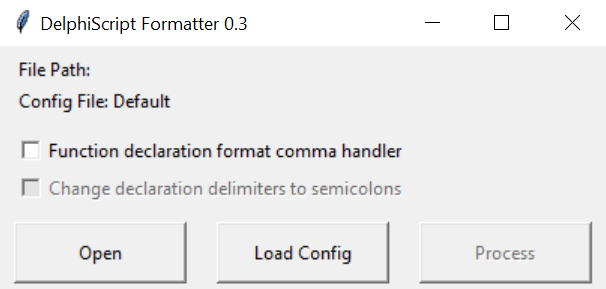
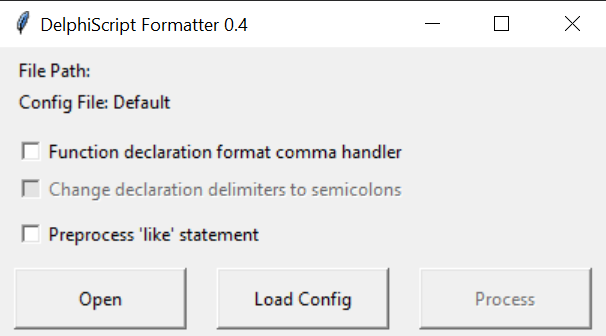
bug fixes, like processing

diff --git a/like_handler.py b/like_handler.py
@@ -1,0 +1,130 @@
+import re
+
+def like_processing_content_preprocess(content):
+    content_modified = []
+
+    for line in content:
+        # Split the line into the part to be processed and the part to be ignored (comment)
+        parts = line.split("//", 1)
+        process_part = parts[0]  # Part to be processed
+        comment_part = "//" + parts[1] if len(parts) > 1 else ""  # Comment part with slashes
+
+        # Mockup function to process the part to be processed
+        processed_part, reverse_info = process_like_statements(process_part)
+
+        if reverse_info != "":
+            content_modified.append(reverse_info)
+
+        # Reassemble both parts into a single line
+        modified_line = processed_part + comment_part
+        content_modified.append(modified_line)
+
+    return content_modified
+
+def like_processing_content_restore(content_modified):
+    restored_content = []
+    processing_info_found = False
+    leading_whitespace = ""
+    processing_info = ""
+
+    for line in content_modified:
+        if line.strip().startswith("// LIKEPROCESSING_INFO:"):
+            # Found a line containing 'LIKEPROCESSING_INFO'
+            processing_info_found = True
+            # Extract leading whitespace from the current line
+            leading_whitespace = line[:len(line) - len(line.lstrip())]
+            processing_info = line.strip()[len("// LIKEPROCESSING_INFO:"):].split(",")
+            continue
+
+        if processing_info_found:
+            # Restore the original content
+            original_line = revert_like_statements(line, processing_info)
+            # Add leading whitespace back to the original line
+            restored_content.append(leading_whitespace + original_line)
+            processing_info_found = False
+        else:
+            restored_content.append(line)
+
+    return restored_content
+
+def revert_like_statements(line, processing_info):
+    restored_line = line
+    equals_positions = [i for i, char in enumerate(restored_line) if char == '=']
+    offset = 0
+
+    for equals_to_skip in processing_info:
+        equals_to_skip = int(equals_to_skip)
+
+        # Ensure the equals_to_skip is within the range of equals positions
+        if 0 <= equals_to_skip < len(equals_positions):
+            replacement_index = equals_positions[equals_to_skip]
+            restored_line = restored_line[:replacement_index + offset] + 'like' + restored_line[replacement_index + 1 + offset:]
+            # like as 3 chars more than = so advance
+            offset = offset + 3
+
+    return restored_line
+
+def process_like_statements(part):
+    # Regular expression pattern to find all occurrences of 'like' (case insensitive)
+    pattern = r'\blike\b'
+
+    # Find all occurrences of 'like' (case insensitive) and replace them with '='
+    processed_part = re.sub(pattern, '=', part, flags=re.IGNORECASE)
+
+    # Initialize the reverse info
+    reverse_info = ""
+
+    found_likes = 0
+
+    # If 'like' processing occurred
+    if re.search(pattern, part, flags=re.IGNORECASE):
+        # Create a string to facilitate reverse replacement
+        # This string will be a comment with slashes starting with 'LIKEPROCESSING_INFO'
+        # Each 'like' replacement is indicated by the number of '=' to be skipped
+        # So that the reverse function knows where a '=' should be replaced by a 'like'
+        reverse_info = "// LIKEPROCESSING_INFO: "
+        like_positions = [m.start() for m in re.finditer(pattern, part, flags=re.IGNORECASE)]
+        for pos in like_positions:
+            # Count the number of '=' to skip
+            equals_to_skip = part.count('=', 0, pos)
+            reverse_info += str(equals_to_skip + found_likes) + ","
+            # each processed like makes a extra skip for restoring
+            found_likes = found_likes + 1
+        # Remove the last comma
+
+        reverse_info = reverse_info[:-1]
+
+        # make a full comment line if like is found
+        if found_likes > 0:
+            reverse_info = reverse_info + '\n'
+
+    # Return both the processed part and the reverse info
+    return processed_part, reverse_info
+
+if __name__ == '__main__':
+    import chardet
+    def detect_encoding(file_path):
+        with open(file_path, 'rb') as f:
+            result = chardet.detect(f.read())
+            return result['encoding']
+
+
+    filename = "test_like_handling.pas"
+
+    # Example usage:
+    source_encoding = detect_encoding(filename)
+
+    # Modify the file content
+    with open(filename, 'r', encoding=source_encoding, errors='ignore') as original_file:
+        content = original_file.readlines()
+
+    for line in content:
+        print(repr(line))
+
+    content_modified = like_processing_content_preprocess(content)
+    for line in content_modified:
+        print(repr(line))
+
+    restored_content = like_processing_content_restore(content_modified)
+    for line in restored_content:
+        print(repr(line))

diff --git a/FormatDS.py b/FormatDS.py
@@ -6,12 +6,12 @@ import subprocess
 import sys
 import chardet
 import time
-
+from like_handler import like_processing_content_restore, like_processing_content_preprocess
 
 class FileProcessorGUI:
     def __init__(self, master):
         self.master = master
-        self.master.title("DelphiScript Formatter 0.3")
+        self.master.title("DelphiScript Formatter 0.4")
 
         # Set minimum window size
         self.master.minsize(width=400, height=150)
@@ -43,6 +43,12 @@ class FileProcessorGUI:
                                                          text="Change declaration delimiters to semicolons",
                                                          variable=self.delimiter_handler_var, state=tk.DISABLED)
         self.delimiter_handler_checkbox.pack(padx=10, pady=(0, 5), anchor=tk.W)
+
+        self.like_handler_var = tk.BooleanVar()
+        self.like_handler_checkbox = tk.Checkbutton(self.master,
+                                                         text="Preprocess \'like\' statement",
+                                                         variable=self.like_handler_var)
+        self.like_handler_checkbox.pack(padx=10, pady=(0, 5), anchor=tk.W)
 
         self.open_button = tk.Button(self.master, text="Open", command=self.open_file, width=15, height=2)
         self.open_button.pack(side=tk.LEFT, padx=10, pady=5)
@@ -146,13 +152,16 @@ class FileProcessorGUI:
         source_encoding = self.detect_encoding(self.file_path)
 
         # Modify the file content
-        with open(self.file_path, 'r', encoding=source_encoding) as original_file:
+        with open(self.file_path, 'r', encoding=source_encoding, errors='ignore') as original_file:
             content = original_file.readlines()
 
         # Process declaration formatting
         if self.comma_handler_var.get():
             for i, line in enumerate(content):
                 content[i] = self.convert_declaration_format(line, False)
+
+        if self.like_handler_var.get():
+            content = like_processing_content_preprocess(content)
 
         modified_content = "unit Test;\ninterface\nimplementation\n\n" + ''.join(content) + "\nend."
 
@@ -189,6 +198,10 @@ class FileProcessorGUI:
                     lines[i] = self.convert_declaration_format(line, True)
 
             lines_to_write = [line for line in lines if line.strip() not in ("unit Test;", "interface", "implementation", "end.")]
+
+        # restore likes on the content if necessary
+        if self.like_handler_var.get():
+            lines_to_write = like_processing_content_restore(lines_to_write)
 
         # Remove newlines from the beginning
         while lines_to_write and lines_to_write[0] == "\n":

diff --git a/README.md b/README.md
@@ -27,6 +27,26 @@ Usage:
 * Function declaration comma Handling:
   * If this box is checked, it will replace all commas in function and procedure declarations with semicolons so that JCF can handle it
   * If "Change declaration delimiters to semicolons" is set then the declaration delimiters will stay semicolons, else they will be changed back to commas after formatting
+* Preprocess 'like' statement: check this box to preprocess the like statement so that JCF can format the code
 
-Config File:
+<u>Config File:</u>
 Optionally, you can load your own Config File. Config files made with the GUI of the old [JEDI Code Format](https://jedicodeformat.sourceforge.net/) are automatically detected and converted.
+
+
+
+<u>Processing of like statements:</u>
+
+Optionally, the unsupported like statements are preprocessed so that JCF can handle the file. For this a non-comment line or the non comment part of a line like this
+
+```
+if (a=b) and (a like c) and not (c = e) and (e like f)  and (u = i)   and (u = i)  and (a like c) then  // test something like nothing
+```
+
+will be analysed, then the like statements will be each bereplaced by a '='. A comment line will be added above that has restoring info:
+
+```
+// LIKEPROCESSING_INFO: 1,3,6
+if (a=b) and (a = c) and not (c = e) and (e = f)  and (u = i)   and (u = i)  and (a = c) then  // test something like nothing
+```
+
+After formatting with JCF, the tool searches for these comments and restores the 'like' statements to their original positions. finally, the like processing comments are removed from the formatted code.
